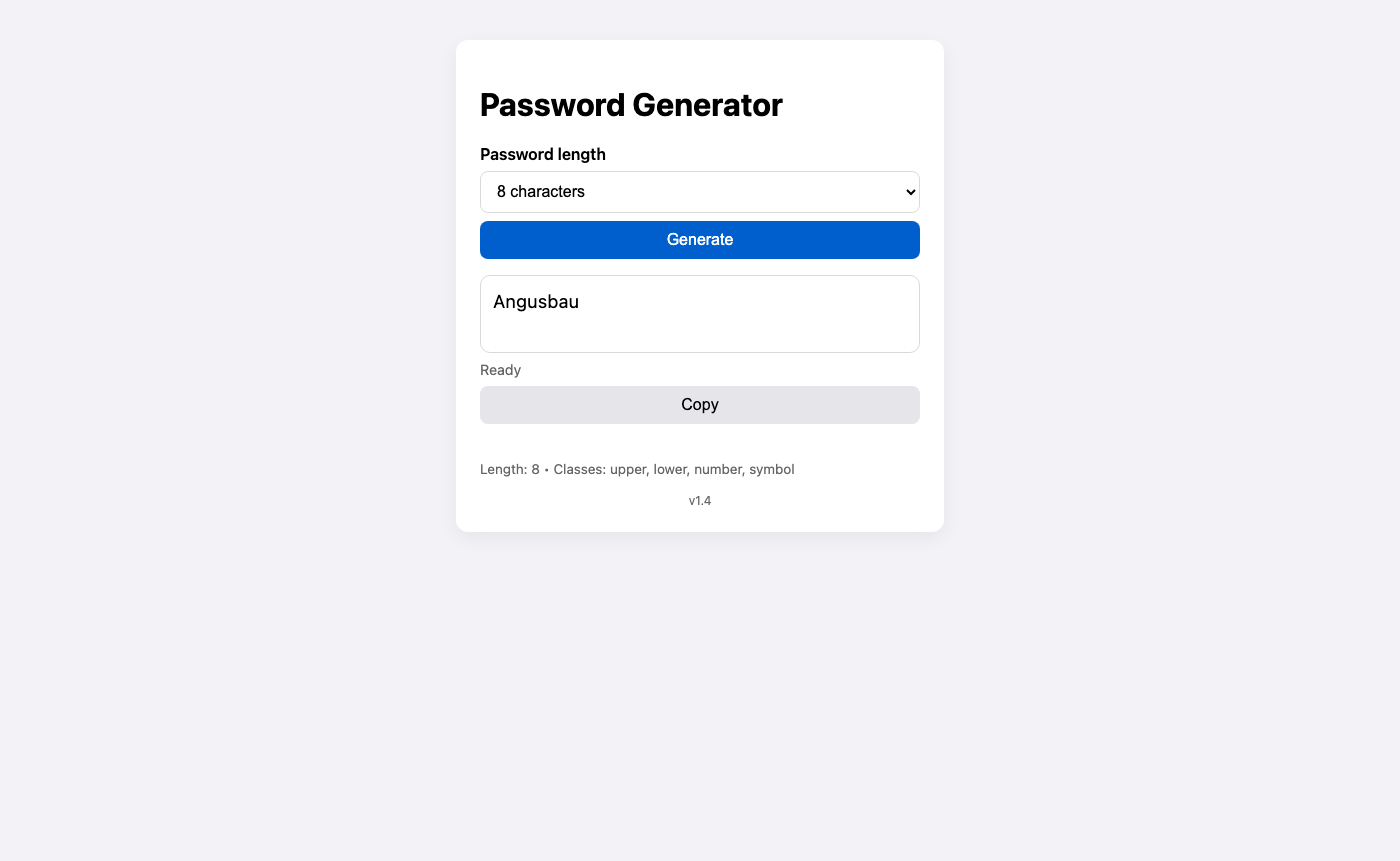
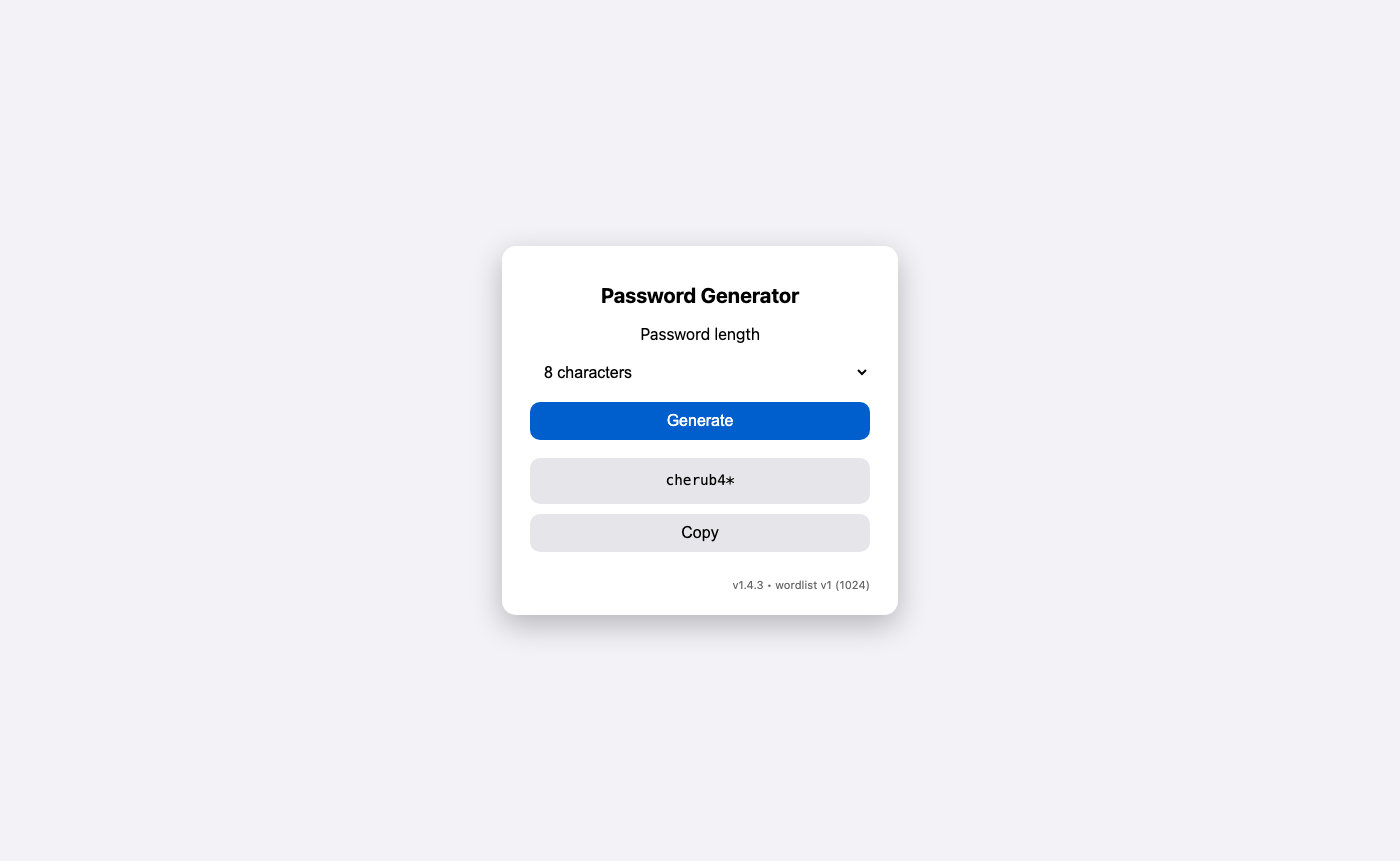
WIP

Changed region(s): [[0.3379, 0.0906, 0.6757, 0.6341], [0.3379, 0.6643, 0.645, 0.7549]]

diff --git a/index.html b/index.html
@@ -208,6 +208,7 @@ function generate() {
   const sym = "*+-=?!@$"[randIndex(8)];
   const length = parseInt(lengthEl.value, 10);
 
+<<<<<<< HEAD
   if (length === 8) {
     // Always exactly 8 chars: 6 letters + digit + symbol
     let base6 = w1 + w2;
@@ -219,6 +220,28 @@ function generate() {
 
   let base = w1 + w2;
   while (base.length < length - 2) base += pickWord();
+=======
+  let base = w1 + w2;
+
+if (length === 8) {
+  let letters = w1.slice(0, 3) + w2.slice(0, 3);
+
+  // Guarantee at least one ASCII uppercase A-Z in the letters portion.
+  // Avoid turning i/o into I/O (your tests reject I and O as ambiguous).
+  if (!/[A-Z]/.test(letters)) {
+    const idx = letters.search(/[a-hj-np-z]/); // skips i and o
+    const i = idx >= 0 ? idx : 0;
+    letters = letters.slice(0, i) + letters[i].toUpperCase() + letters.slice(i + 1);
+  }
+
+  passwordEl.textContent = letters + num + sym;
+  return;
+}
+
+  while (base.length < length - 2) {
+    base += pickWord();
+  }
+>>>>>>> 3140562 (Fix 8-char mode to always include uppercase (avoid I/O))
 
   const mid = Math.floor(base.length / 2);
   passwordEl.textContent =
